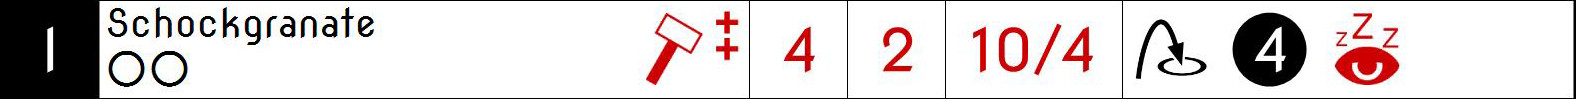
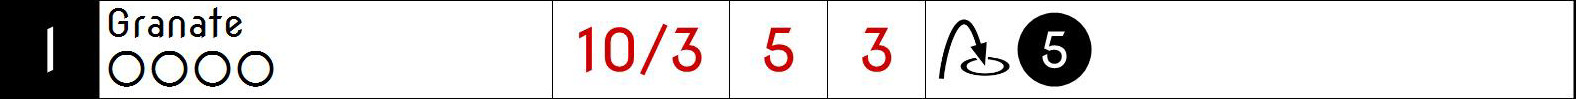
Einmalnutzung von Waffen

Changed region(s): [[0.342, 0.0909, 0.9016, 0.8788], [0.0622, 0.0606, 0.2487, 0.4545], [0.1244, 0.5152, 0.1865, 0.8788]]

diff --git a/Regeln/Regelbuch.md b/Regeln/Regelbuch.md
@@ -1096,7 +1096,7 @@ Bei jeder Verwendung **muss** ein Marker gestrichen werden.
 
 !!! example Beispiel
 
-    Für eine Schockgranate die 2x verwendet werden kann.
+    Für eine Granate die 4x verwendet werden kann.
 
     ![Einmalnutzung Waffe](Grafiken/Abbildungen/einmalnutzung_waffe.jpg){width="500pt"}
 
